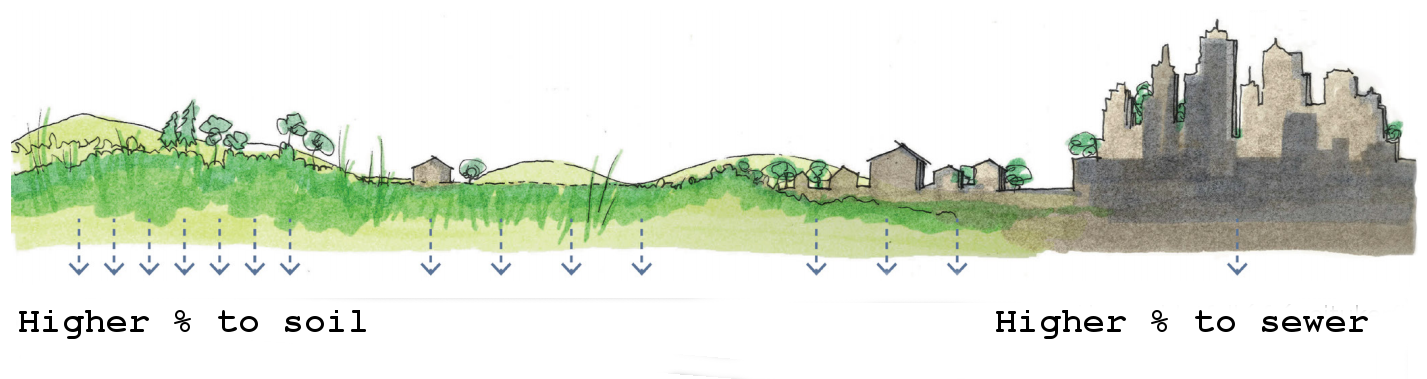
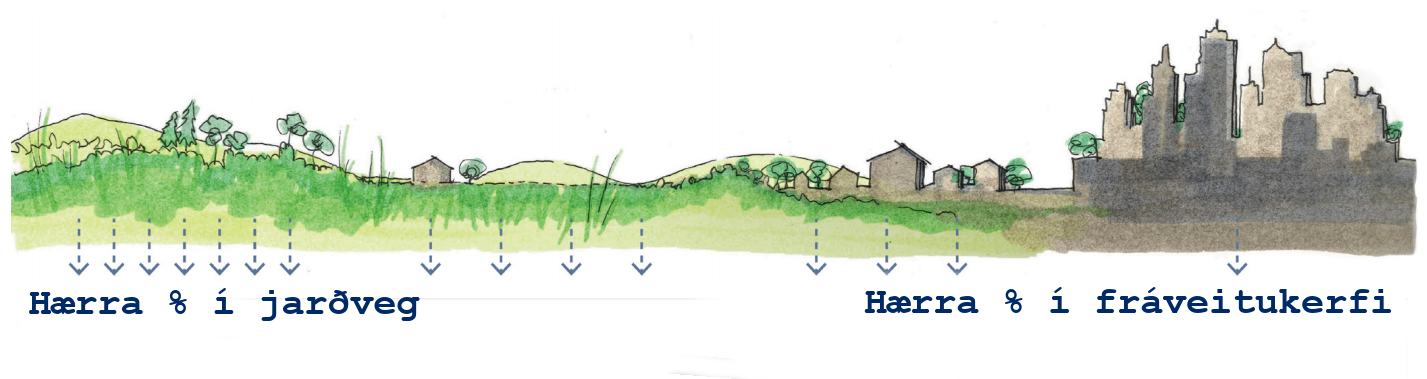
ísl

Changed region(s): [[0.5858, 0.7546, 0.9867, 0.8997], [0.0, 0.7546, 0.3083, 0.8997]]

diff --git a/docs/index.html b/docs/index.html
@@ -21,9 +21,9 @@ background-size: 100%
 .center[
 # .yellow[Örplast]
 ## .yellow[í náttúru Íslands]
-### .white[Unnið úr verkefni sem gert var fyrir umhverfisráðuneytið] ![](images/skjldr.svg)
 
-## ![](images/Biopol_logo_small.jpg) ![](images/nnvlogo.png)
+## ![](images/NNV-logo.png)
+
 
 
 ]]
@@ -69,9 +69,10 @@ class: split-two with-thick-border border-cyan
 
 .content.vmiddle[
 .center[
- ## ![](images/Biopol_logo_small.jpg) &amp; ![](images/nnvlogo.png) Örplastrannsóknir:
- ## .orange[Sýnatökur &lt;svg viewBox="0 0 16 16" xmlns="http://www.w3.org/2000/svg" style="height:1em;fill:currentColor;position:relative;display:inline-block;top:.1em;"&gt;  &lt;path fill-rule="evenodd" d="M5 5.782V2.5h-.25a.75.75 0 010-1.5h6.5a.75.75 0 010 1.5H11v3.282l3.666 5.76C15.619 13.04 14.543 15 12.767 15H3.233c-1.776 0-2.852-1.96-1.899-3.458L5 5.782zM9.5 2.5h-3V6a.75.75 0 01-.117.403L4.73 9h6.54L9.617 6.403A.75.75 0 019.5 6V2.5zm-6.9 9.847L3.775 10.5h8.45l1.175 1.847a.75.75 0 01-.633 1.153H3.233a.75.75 0 01-.633-1.153z"&gt;&lt;/path&gt;&lt;/svg&gt;] &amp; .yellow[sanngreining &lt;svg viewBox="0 0 16 16" xmlns="http://www.w3.org/2000/svg" style="height:1em;fill:currentColor;position:relative;display:inline-block;top:.1em;"&gt;  &lt;path fill-rule="evenodd" d="M1.5 1.75a.75.75 0 00-1.5 0v12.5c0 .414.336.75.75.75h14.5a.75.75 0 000-1.5H1.5V1.75zm14.28 2.53a.75.75 0 00-1.06-1.06L10 7.94 7.53 5.47a.75.75 0 00-1.06 0L3.22 8.72a.75.75 0 001.06 1.06L7 7.06l2.47 2.47a.75.75 0 001.06 0l5.25-5.25z"&gt;&lt;/path&gt;&lt;/svg&gt;]
- ## Greinaskrif og skýrslur &lt;svg viewBox="0 0 16 16" xmlns="http://www.w3.org/2000/svg" style="height:1em;fill:currentColor;position:relative;display:inline-block;top:.1em;"&gt;  &lt;path fill-rule="evenodd" d="M1.75 2.5h12.5a.25.25 0 01.25.25v7.5a.25.25 0 01-.25.25H1.75a.25.25 0 01-.25-.25v-7.5a.25.25 0 01.25-.25zM14.25 1H1.75A1.75 1.75 0 000 2.75v7.5C0 11.216.784 12 1.75 12h3.727c-.1 1.041-.52 1.872-1.292 2.757A.75.75 0 004.75 16h6.5a.75.75 0 00.565-1.243c-.772-.885-1.193-1.716-1.292-2.757h3.727A1.75 1.75 0 0016 10.25v-7.5A1.75 1.75 0 0014.25 1zM9.018 12H6.982a5.72 5.72 0 01-.765 2.5h3.566a5.72 5.72 0 01-.765-2.5z"&gt;&lt;/path&gt;&lt;/svg&gt;
+ ### ![](images/Biopol_logo_small-transparent.png) &amp; ![](images/NNV-logo-transparent-kassi.png) 
+ ## Örplastrannsóknir:
+ ### Sýnatökur, sanngreining,
+ ### greinaskrif og skýrslur.
 
 ]]]]]
 
@@ -86,7 +87,7 @@ layout: true
 class: split-three with-thick-border
 
 .column.bg-red[.content.center.vmiddle[
-.yellow.font-pulp.font2[hVAÐAN KEMUR ÖRPLAST?]
+.yellow.font-pulp.font2[HVAR FINNST ÖRPLAST?]
 &lt;br&gt;
 .img-fill[![](images/animated_plot.gif)]
 .bottom_abs[.footer-note[.tiny[.green[Image Credit: ][CJ_Productions](https://www.reddit.com/r/cutouts/comments/3u9prd/travolta_cutout_technically_gif_format_optimized/)]]
@@ -104,7 +105,7 @@ class: split-three with-thick-border
 
 
 .column.bg-main2[.content.center.vmiddle[
-# Nokrir megin farvegir
+# Nokkrir megin farvegir
 
 .img-fill[![](images/ellidaar_saevarhofdi_02.jpg)]
 
@@ -146,13 +147,16 @@ class: split-40 bg-white with-border
 &lt;img src="images/skolp_crop.jpg" width=100%&gt;
     ]]
   .column.bg-white[.content[
- .font2.center[💦**Rennandi vatn er helsti farvegur örplasts**]
+ .font2.center[💧 🌊 💨 **Helstu farvegir**]
+
 
 .font_large[
-* Skólp
-* Ár og lækir
-* Rusl í fjörum
-* Vindur 🌬
+ * Rennandi vatn
+ * Skólp
+ * Ár og lækir
+ 
+ 
+  * Vindur 🌬
 ]
 
   ]
@@ -213,8 +217,8 @@ class: split-33
 .column[.content.vmiddle.center[
 
 &lt;div class="figure"&gt;
-<div id="htmlwidget-825e0493db3b72be6d24" style="width:100%;height:678px;" class="widgetframe html-widget"></div>
-<script type="application/json" data-for="htmlwidget-825e0493db3b72be6d24">{"x":{"url":"index_files/figure-html//widgets/widget_SankBig.html","options":{"xdomain":"*","allowfullscreen":false,"lazyload":false}},"evals":[],"jsHooks":[]}</script>
+<div id="htmlwidget-6bde0bc9c55d7492d90d" style="width:100%;height:678px;" class="widgetframe html-widget"></div>
+<script type="application/json" data-for="htmlwidget-6bde0bc9c55d7492d90d">{"x":{"url":"index_files/figure-html//widgets/widget_SankBig.html","options":{"xdomain":"*","allowfullscreen":false,"lazyload":false}},"evals":[],"jsHooks":[]}</script>
 &lt;p class="caption"&gt;Microplastic&lt;/p&gt;
 &lt;/div&gt;
 
@@ -265,8 +269,8 @@ class: split-40
  
   .row.bg-main2[.content.left[
 * .font_medium[.blue[Fjöldi] ökutækja, eftir stærð og gerð (Ökutækjastofa)]
-* .font_medium[Estimates of .blue[wear] of tyres] .tiny[(Klein 2017)]
-* .font_medium[Estimates of .blue[emissions]] .tiny[(Vershoor 2016)]
+* .font_medium[Áætlað .blue[slit] hjólbarða] .tiny[(Klein 2017)]
+* .font_medium[Áætluð .blue[losun]] dekkjaslits .tiny[(Vershoor 2016)]
 
  ]]
  
@@ -296,7 +300,7 @@ class: split-40
 
 class: hide-row2-col1 hide-row3-col1 with-thick-border border-white
 
-# Car tyres
+# Hjólbarðar
 
 
 &lt;img src="images/tyre.jpg" width="51%" /&gt;&lt;img src="images/Kreider_et_al_2010.png" width="51%" /&gt;
@@ -312,8 +316,8 @@ Lets start with the biggest source, car tyres. The asphalt scrapes the rubber of
 class: fade-row1-col1 hide-row3-col1 with-thick-border border-white
 
 &lt;div class="figure"&gt;
-<div id="htmlwidget-97966653528dda61f677" style="width:100%;height:400px;" class="widgetframe html-widget"></div>
-<script type="application/json" data-for="htmlwidget-97966653528dda61f677">{"x":{"url":"index_files/figure-html//widgets/widget_SankSmall.html","options":{"xdomain":"*","allowfullscreen":false,"lazyload":false}},"evals":[],"jsHooks":[]}</script>
+<div id="htmlwidget-0c28323906a06b79d453" style="width:100%;height:400px;" class="widgetframe html-widget"></div>
+<script type="application/json" data-for="htmlwidget-0c28323906a06b79d453">{"x":{"url":"index_files/figure-html//widgets/widget_SankSmall.html","options":{"xdomain":"*","allowfullscreen":false,"lazyload":false}},"evals":[],"jsHooks":[]}</script>
 &lt;p class="caption"&gt;Microplastic&lt;/p&gt;
 &lt;/div&gt;
 

diff --git a/docs/index_files/figure-html/widgets/widget_SankBig.html b/docs/index_files/figure-html/widgets/widget_SankBig.html
@@ -12,12 +12,12 @@
 </head>
 <body>
 <div id="htmlwidget_container">
-  <div id="htmlwidget-f59de52f97d1512d5f15" style="width:100%;height:678px;" class="sankeyNetwork html-widget"></div>
+  <div id="htmlwidget-7e5a05853fdb2b58d393" style="width:100%;height:678px;" class="sankeyNetwork html-widget"></div>
   <script>HTMLWidgets.pymChild = new pym.Child();HTMLWidgets.addPostRenderHandler(function(){
                                 setTimeout(function(){HTMLWidgets.pymChild.sendHeight();},100);
                             });</script>
 </div>
-<script type="application/json" data-for="htmlwidget-f59de52f97d1512d5f15">{"x":{"links":{"source":[0,1,2,3,4,5,6,7,8,9,10,0,1,2,3,4,5,6,7,8,9,10],"target":[11,11,11,11,11,11,11,11,11,11,11,12,12,12,12,12,12,12,12,12,12,12],"value":[207,35.3,26,18,56.8,2.7,0.2,0,0,1,0,164,5.7,0,15.2,3.2,0.3,0,8.2,0.34,0,0.002]},"nodes":{"name":["Hjólbarðar ","Vegamálning ","Hjólbarðar flugvéla ","Húsamálning ","Skipamálning ","Gervigras ","leikvellir ","Þvottur ","Snyrtivörur ","Högl ","Sigvatn úr landfyllingum ","Land ","Haf "],"group":["Hjólbarðar ","Vegamálning ","Hjólbarðar flugvéla ","Húsamálning ","Skipamálning ","Gervigras ","leikvellir ","Þvottur ","Snyrtivörur ","Högl ","Sigvatn úr landfyllingum ","Land ","Haf "]},"options":{"NodeID":"name","NodeGroup":"name","LinkGroup":null,"colourScale":"d3.scaleOrdinal(d3.schemeCategory20);","fontSize":28,"fontFamily":"Courier","nodeWidth":30,"nodePadding":10,"units":"tonn","margin":{"top":null,"right":null,"bottom":null,"left":null},"iterations":32,"sinksRight":true}},"evals":[],"jsHooks":[]}</script>
-<script type="application/htmlwidget-sizing" data-for="htmlwidget-f59de52f97d1512d5f15">{"viewer":{"width":"100%","height":"678","padding":0,"fill":false},"browser":{"width":"100%","height":"678","padding":0,"fill":false}}</script>
+<script type="application/json" data-for="htmlwidget-7e5a05853fdb2b58d393">{"x":{"links":{"source":[0,1,2,3,4,5,6,7,8,9,10,0,1,2,3,4,5,6,7,8,9,10],"target":[11,11,11,11,11,11,11,11,11,11,11,12,12,12,12,12,12,12,12,12,12,12],"value":[207,35.3,26,18,56.8,2.7,0.2,0,0,1,0,164,5.7,0,15.2,3.2,0.3,0,8.2,0.34,0,0.002]},"nodes":{"name":["Hjólbarðar ","Vegamálning ","Hjólbarðar flugvéla ","Húsamálning ","Skipamálning ","Gervigras ","leikvellir ","Þvottur ","Snyrtivörur ","Högl ","Sigvatn úr landfyllingum ","Land ","Haf "],"group":["Hjólbarðar ","Vegamálning ","Hjólbarðar flugvéla ","Húsamálning ","Skipamálning ","Gervigras ","leikvellir ","Þvottur ","Snyrtivörur ","Högl ","Sigvatn úr landfyllingum ","Land ","Haf "]},"options":{"NodeID":"name","NodeGroup":"name","LinkGroup":null,"colourScale":"d3.scaleOrdinal(d3.schemeCategory20);","fontSize":28,"fontFamily":"Courier","nodeWidth":30,"nodePadding":10,"units":"tonn","margin":{"top":null,"right":null,"bottom":null,"left":null},"iterations":32,"sinksRight":true}},"evals":[],"jsHooks":[]}</script>
+<script type="application/htmlwidget-sizing" data-for="htmlwidget-7e5a05853fdb2b58d393">{"viewer":{"width":"100%","height":"678","padding":0,"fill":false},"browser":{"width":"100%","height":"678","padding":0,"fill":false}}</script>
 </body>
 </html>

diff --git a/docs/index_files/figure-html/widgets/widget_SankSmall.html b/docs/index_files/figure-html/widgets/widget_SankSmall.html
@@ -12,12 +12,12 @@
 </head>
 <body>
 <div id="htmlwidget_container">
-  <div id="htmlwidget-ff12cfcdac8133a85ca6" style="width:100%;height:400px;" class="sankeyNetwork html-widget"></div>
+  <div id="htmlwidget-50204f734ba340dbf530" style="width:100%;height:400px;" class="sankeyNetwork html-widget"></div>
   <script>HTMLWidgets.pymChild = new pym.Child();HTMLWidgets.addPostRenderHandler(function(){
                                 setTimeout(function(){HTMLWidgets.pymChild.sendHeight();},100);
                             });</script>
 </div>
-<script type="application/json" data-for="htmlwidget-ff12cfcdac8133a85ca6">{"x":{"links":{"source":[0,1,2,3,0,1,2,3],"target":[4,4,4,4,5,5,5,5],"value":[138,19,13,45,106,15,9,34]},"nodes":{"name":["Small Vehicles ","Delivery Vans ","Buses ","Lorrys ","Land ","Ocean "],"group":["Small Vehicles ","Delivery Vans ","Buses ","Lorrys ","Land ","Ocean "]},"options":{"NodeID":"name","NodeGroup":"name","LinkGroup":null,"colourScale":"d3.scaleOrdinal(d3.schemeCategory20);","fontSize":28,"fontFamily":"Courier","nodeWidth":30,"nodePadding":10,"units":"tonn","margin":{"top":null,"right":null,"bottom":null,"left":null},"iterations":32,"sinksRight":true}},"evals":[],"jsHooks":[]}</script>
-<script type="application/htmlwidget-sizing" data-for="htmlwidget-ff12cfcdac8133a85ca6">{"viewer":{"width":"100%","height":"400px","padding":0,"fill":false},"browser":{"width":"100%","height":"400px","padding":0,"fill":false}}</script>
+<script type="application/json" data-for="htmlwidget-50204f734ba340dbf530">{"x":{"links":{"source":[0,1,2,3,0,1,2,3],"target":[4,4,4,4,5,5,5,5],"value":[138,19,13,45,106,15,9,34]},"nodes":{"name":["Small Vehicles ","Delivery Vans ","Buses ","Lorrys ","Land ","Ocean "],"group":["Small Vehicles ","Delivery Vans ","Buses ","Lorrys ","Land ","Ocean "]},"options":{"NodeID":"name","NodeGroup":"name","LinkGroup":null,"colourScale":"d3.scaleOrdinal(d3.schemeCategory20);","fontSize":28,"fontFamily":"Courier","nodeWidth":30,"nodePadding":10,"units":"tonn","margin":{"top":null,"right":null,"bottom":null,"left":null},"iterations":32,"sinksRight":true}},"evals":[],"jsHooks":[]}</script>
+<script type="application/htmlwidget-sizing" data-for="htmlwidget-50204f734ba340dbf530">{"viewer":{"width":"100%","height":"400px","padding":0,"fill":false},"browser":{"width":"100%","height":"400px","padding":0,"fill":false}}</script>
 </body>
 </html>

diff --git a/README.md b/README.md
@@ -1,2 +1,1 @@
-# Sources and Pathways of Microplastics to Icelandic Seas (**a talk**)
-This is the english version of a talk about the results of a report that was made for the environmental ministry of Iceland. Here is the [talk](https://harkanatta.github.io/mp-mirror/) and here is the [report](https://harkanatta.github.io/orplastskyrslaUAR/) (**in Icelandic**)
+# Örplast í náttúru Íslands, 10 mínútna fyrirlestur á ársfundi náttúrustofanna í Borgarnesi í september 2022. Þýðing á fyrirlestri frá Arctic Plastics 2021: [Sources and Pathways of Microplastics to Icelandic Seas.](https://harkanatta.github.io/mp-mirror/) sem var unnin upp úr skýrslunni um [uppsprettur og farvegi örplasts á Íslandireport](https://harkanatta.github.io/orplastskyrslaUAR/)
